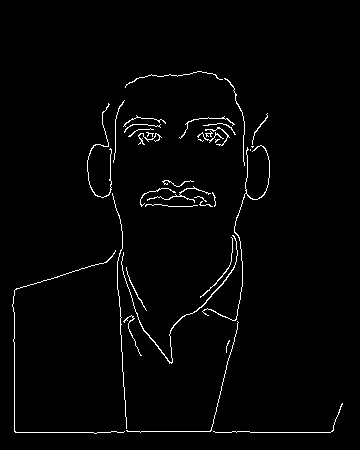
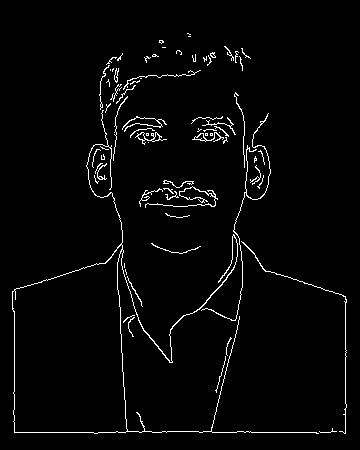
edge image edit app

diff --git a/practice_day28.py b/practice_day28.py
@@ -1,0 +1,26 @@
+print("----------------------------- Practice Day 28 ----------------------------")
+
+# Edge detection app
+import cv2
+def edge_detection_app():
+    img = cv2.imread("D:\Documents\Mayur.png")
+    if img is None:
+        print("❌ Could not read the image.")
+        return
+    print("✅ Image loaded successfully.")
+    print("Converting image to grayscale...")
+    gray_img = cv2.cvtColor(img, cv2.COLOR_BGR2GRAY)
+    print("Applying Canny edge detection...")
+    edges = cv2.Canny(gray_img, 100, 200)
+    cv2.imwrite('edges_image.jpg', edges)
+    print("✅ Edge-detected image saved: edges_image.jpg")
+    cv2.imshow('Original Image', img)
+    cv2.imshow('Edge Detected Image', edges)
+    cv2.waitKey(0)
+    cv2.destroyAllWindows()
+    print("👋 Edge detection completed.")
+    
+if __name__ == "__main__":
+    edge_detection_app()
+    
+print("-------------------------- End of Practice Day 28 --------------------------")
